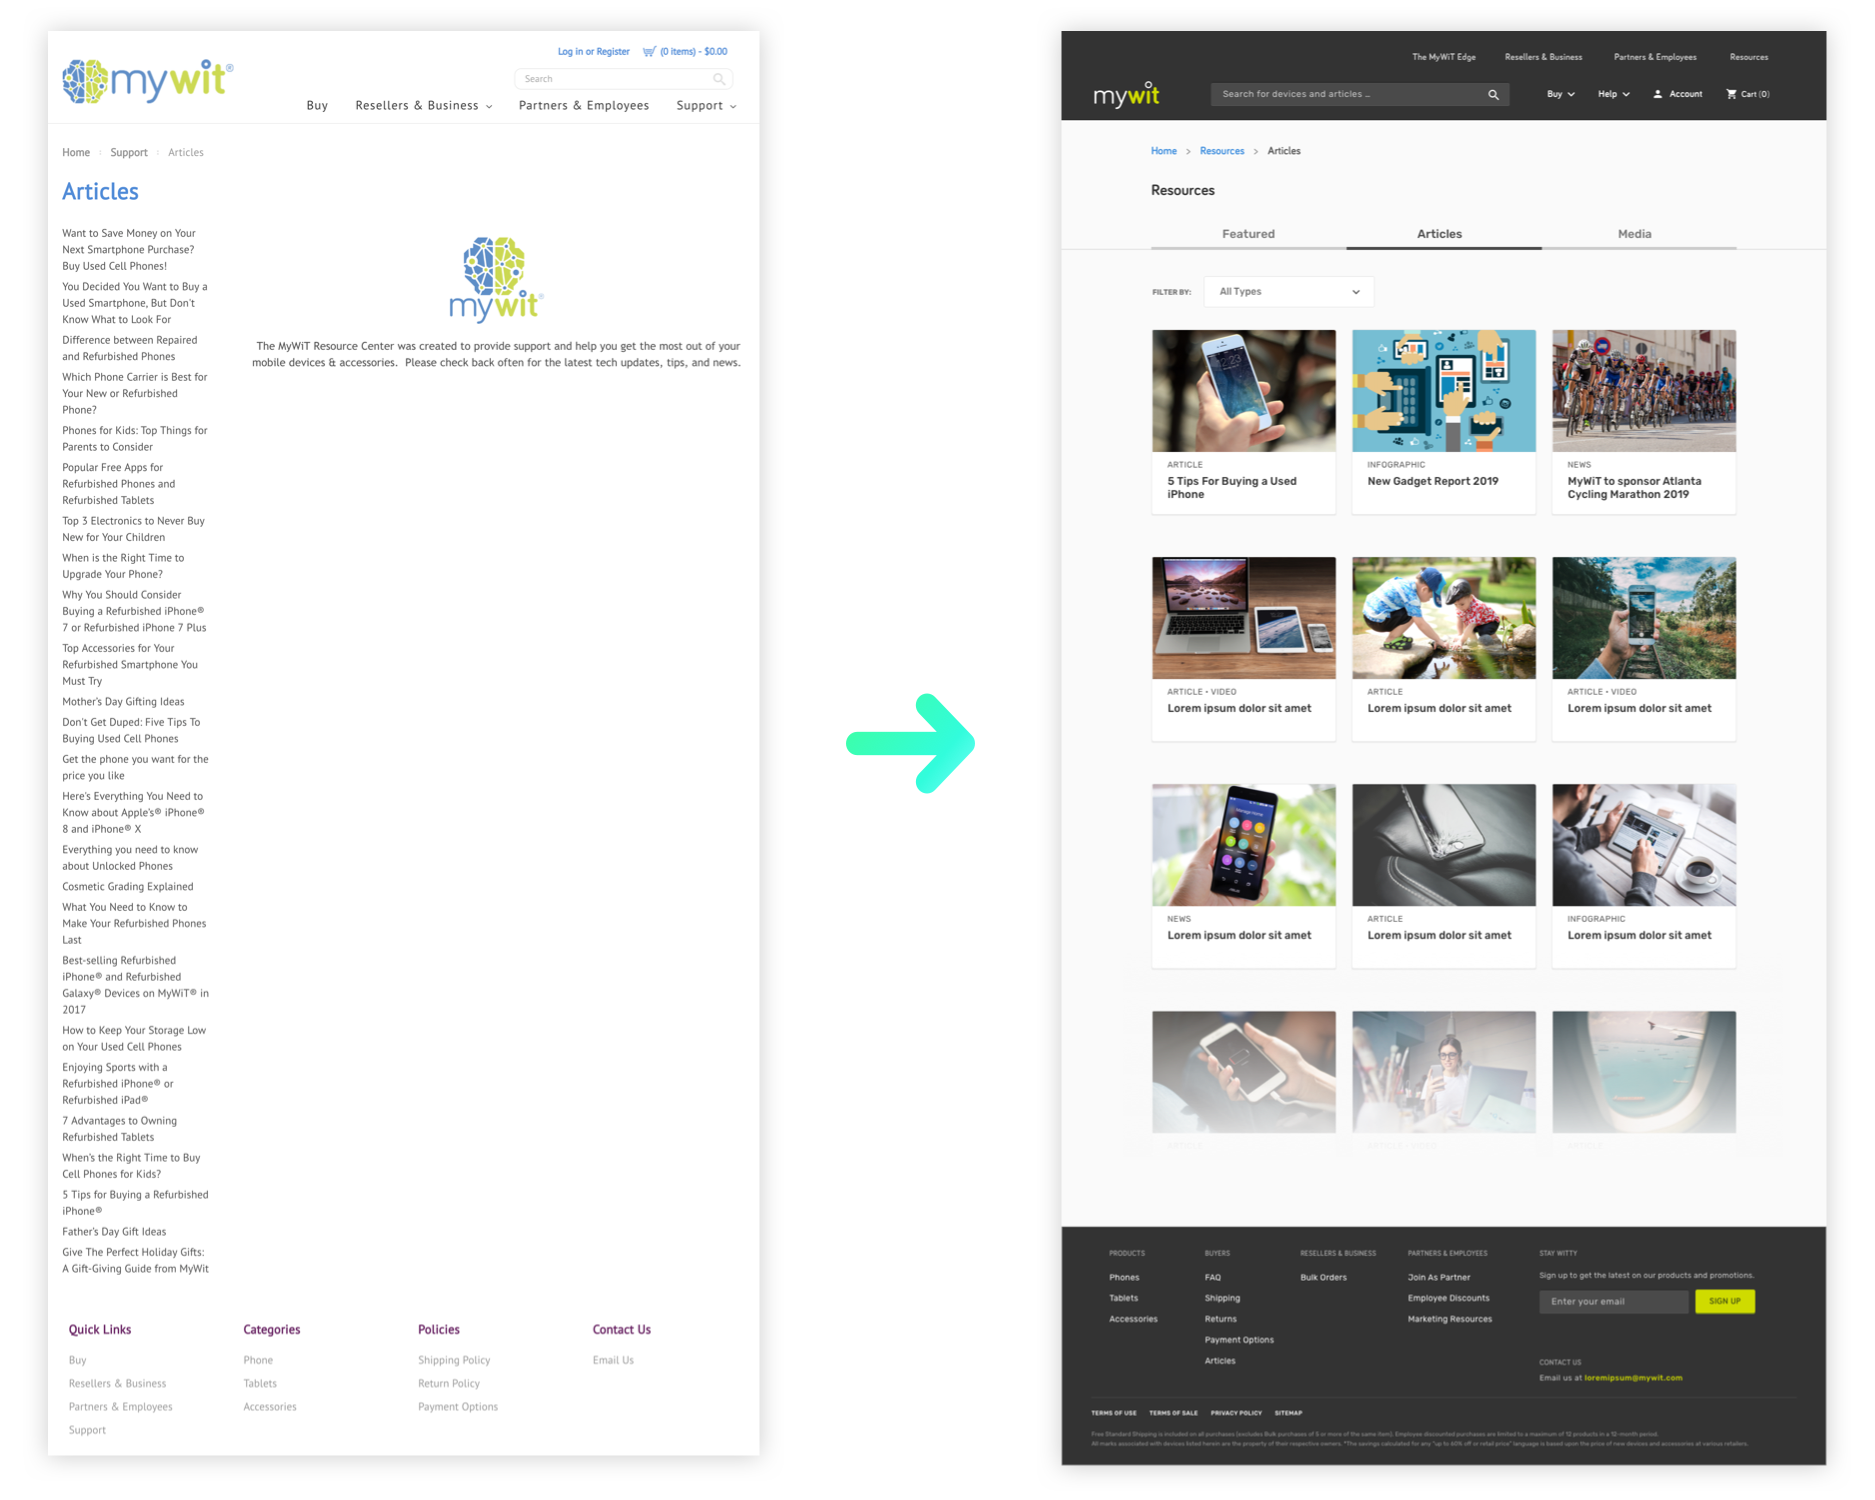
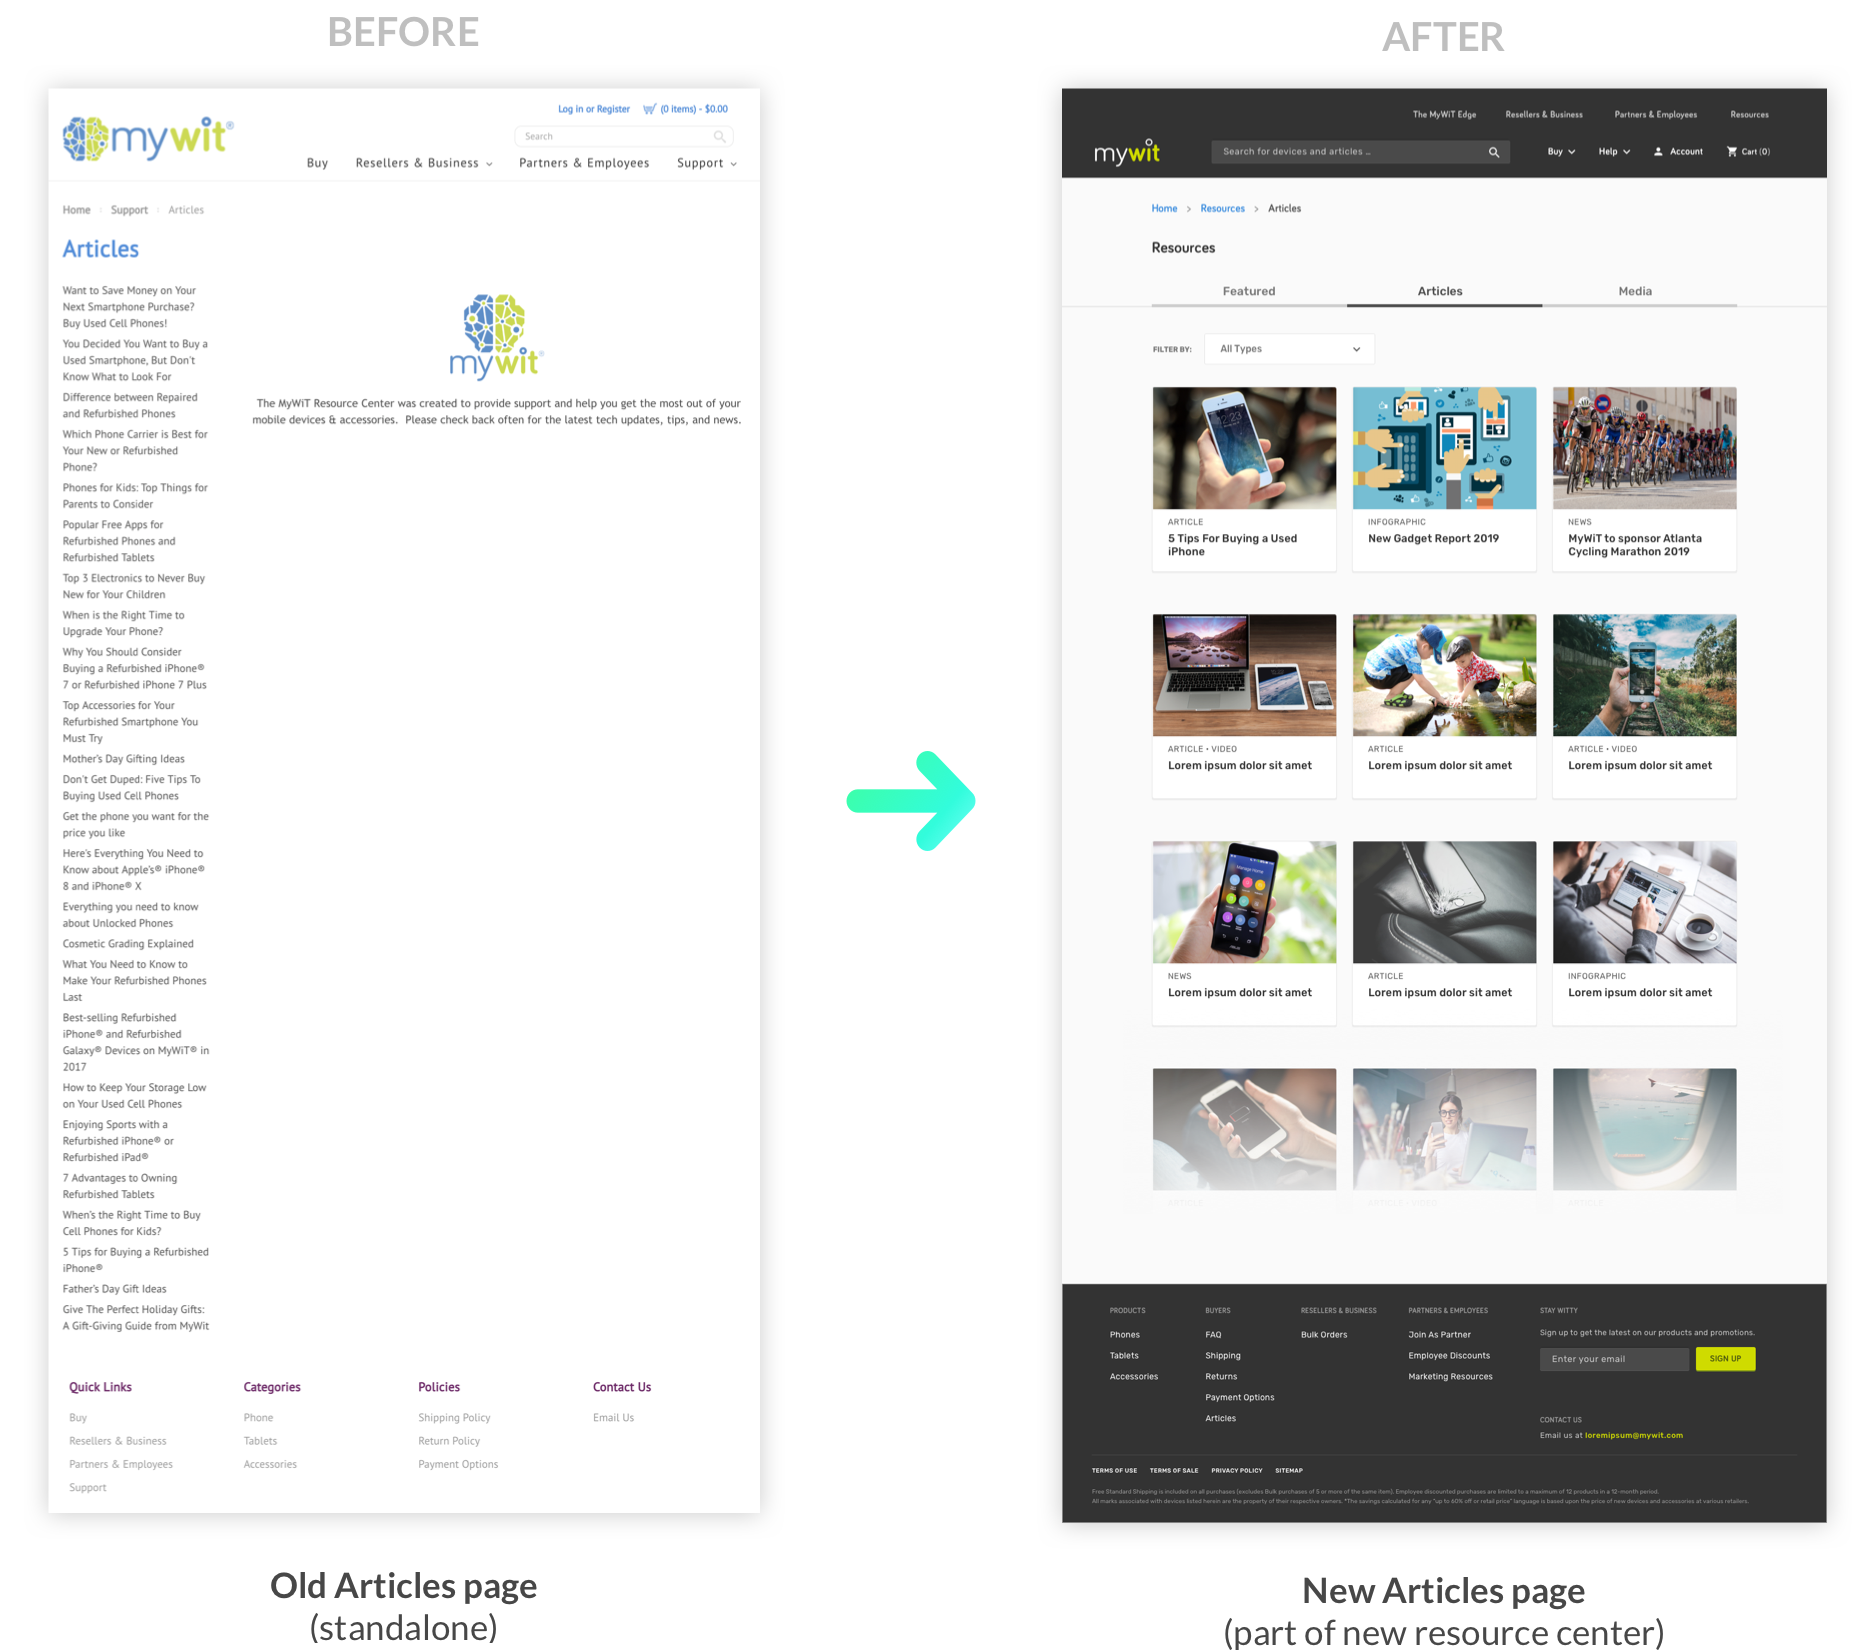
MyWit improvements

diff --git a/mywit.html b/mywit.html
@@ -73,7 +73,7 @@
 		<div class ="project-page-overview">
 
 			<div class="content-column">
-				<div class="project-page-tags">Design Lead &nbsp;&sdot;&nbsp; Internship Project &nbsp;&sdot;&nbsp; User-Centered Design Process</div>
+				<div class="project-page-tags">Design Lead &nbsp;&sdot;&nbsp; Internship Project &nbsp;&sdot;&nbsp; User-Centered Design Process &nbsp;&sdot;&nbsp; Information Architecture</div>
 			</div>
 
 
@@ -86,7 +86,7 @@
 			</div>
 
 			<div class ="content-column">
-				<p class="project-page-desc">Over the summer of 2018, I interned at Assurant, an insurance company based in Atlanta. <i>MyWit.com</i> is an online e-commerce store run by Assurant that sells used phones and tablets. In this project, I was in charge of redesigning the site, where I primarily focused on a new <b>resource center</b> as the first step of the redesign. I conducted user research, balanced various business needs, crafted wireframes, reworked the information architecture, and reimagined the visual design of the site.</p>
+				<p class="project-page-desc">Over the summer of 2018, I interned at Assurant, an insurance company based in Atlanta. <i>MyWit.com</i> is an online e-commerce store run by Assurant that sells used phones and tablets. In this project, I was in charge of redesigning the site, primarily focusing on a new <b>resource center</b> as the first step of the redesign. I also reworked the information architecture of the site by reorganizing the navigation bar, and reimagined the site's visual design while staying within stakeholder constraints.</p>
 
 				<p><a target="_blank" href="https://invis.io/8MOFIONBDQK">Click here to try out my final prototype.</a></p>
 
@@ -159,7 +159,7 @@
 			</div>
 
 
-			<div class="spacer-small"></div>
+<!-- 			<div class="spacer-small"></div>
 
 
 			<div class="content-column image-wrapper">
@@ -168,7 +168,7 @@
 				<div class="spacer-small"></div>
 				<div class="caption">Old Homepage for MyWit.com</div>
 
-			</div>
+			</div> -->
 
 
 
@@ -202,10 +202,9 @@
 
 			<div class="spacer"></div>
 
-			<div class="content-column image-wrapper width-limiter-wide">
+			<div class="content-column image-wrapper width-limiter-900">
 				<img class="" src="assets/mywit/articles-before-after.png">
 				<div class="spacer-small"></div>
-				<div class="caption">Replacing the old <i>Articles</i> page. I incorporated this page as part of the new resource center.</div>
 			</div>
 
 			
@@ -434,45 +433,45 @@
 		<div class="spacer-small"></div>
 
 		<div class ="content-column">
-			<h3>General Redesigns</h3>
+			<h3>Information Architecture Changes</h3>
 		</div>
 
 		<div class ="content-column">
-			<p>Apart from the resource center, the high-fidelity prototype includes several additional changes.</p>
+			<p>Since the resource center is scattered across different sections of the site, I took the chance to reorganize the information architecture of the site.</p>
 		</div>
 
 
 		<div class="content-column image-wrapper width-limiter-750">
 			<img class="shadow-light" src="assets/mywit/navbar.png"></img>
-			<div class="caption">Navigation Bar</div>
+			<div class="caption"><b>Navigation Bar</b> &mdash; I separated the </div>
 		</div>
 
 		<div class="spacer"></div>
 
 		<div class="content-column image-wrapper width-limiter-750">
 			<img class="shadow-light" src="assets/mywit/shop-now-menu.png"></img>
-			<div class="caption">Shop Now Menu</div>
+			<div class="caption"><b>Shop Now Menu</b> &mdash; </div>
 		</div>
 
 		<div class="spacer"></div>
 
 		<div class="content-column image-wrapper width-limiter-250">
 			<img class="shadow-light" src="assets/mywit/help-menu.png"></img>
-			<div class="caption">Help Menu</div>
+			<div class="caption"><b>Help Menu</b> &mdash; </div>
 		</div>
 
 		<div class="spacer"></div>
 
 		<div class="content-column image-wrapper width-limiter-250">
 			<img class="shadow-light" src="assets/mywit/login-menu.png"></img>
-			<div class="caption">Login Menu</div>
+			<div class="caption"><b>Login Menu</b> &mdash; </div>
 		</div>
 
 		<div class="spacer"></div>
 
 		<div class="content-column image-wrapper width-limiter-750">
 			<img class="shadow-light" src="assets/mywit/footer.png"></img>
-			<div class="caption">Footer</div>
+			<div class="caption"><b>Footer</b> &mdash; </div>
 		</div>
 
 
